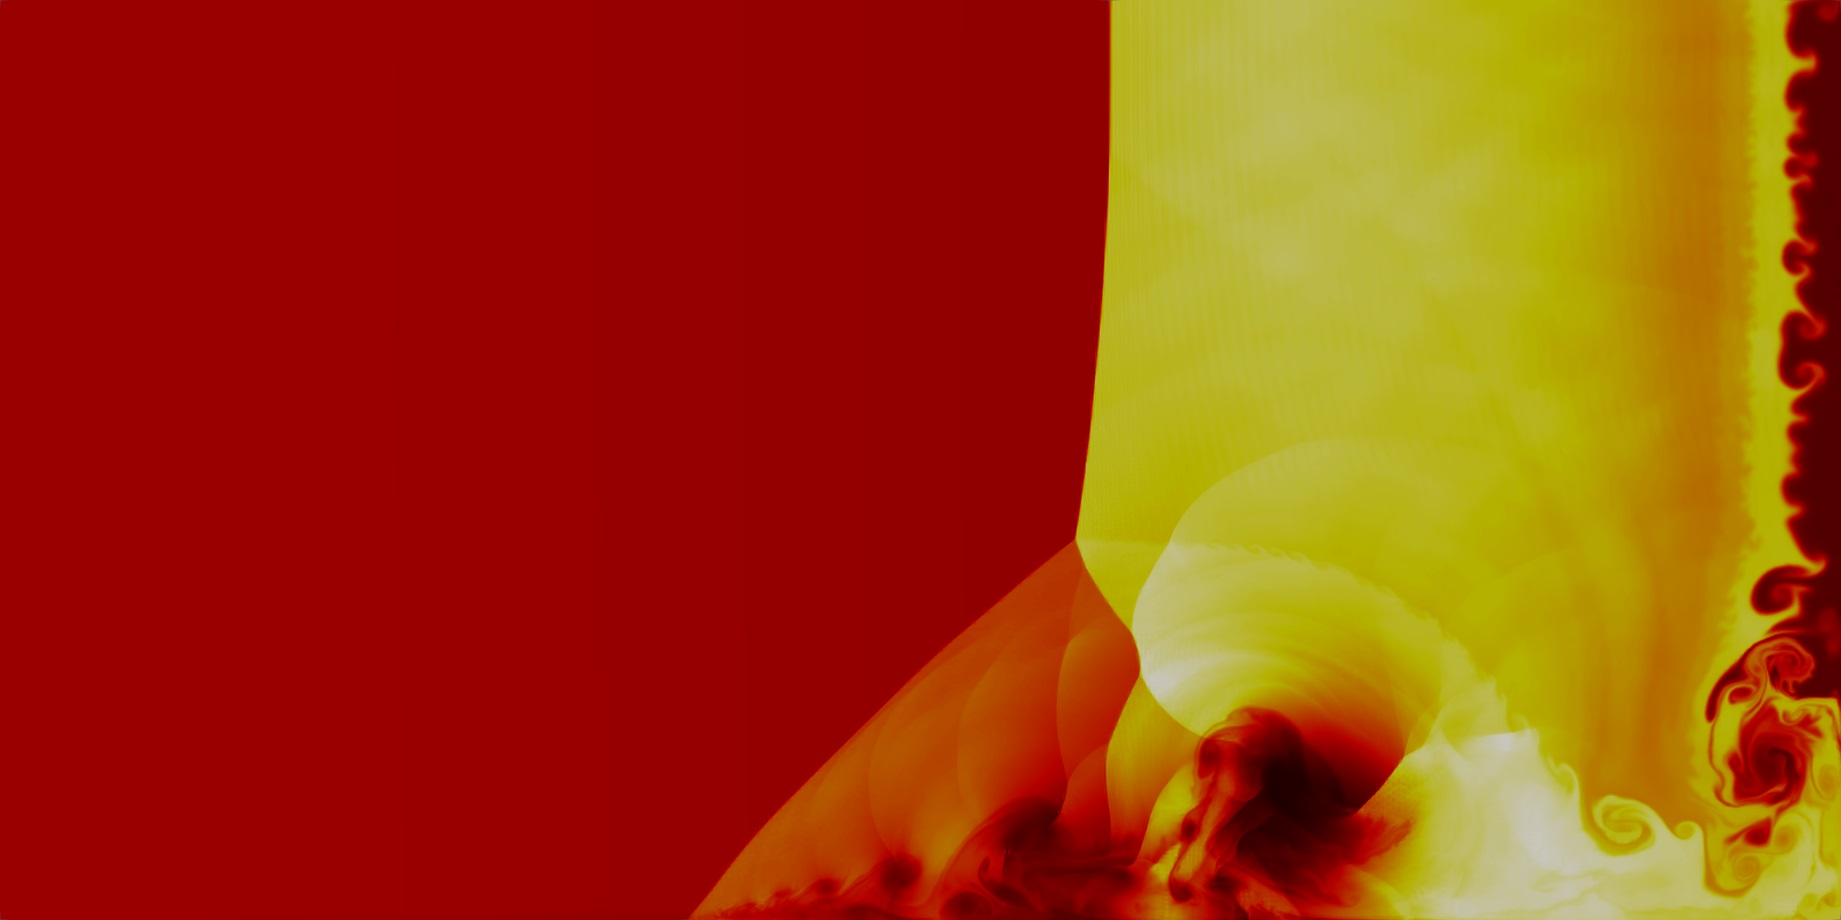
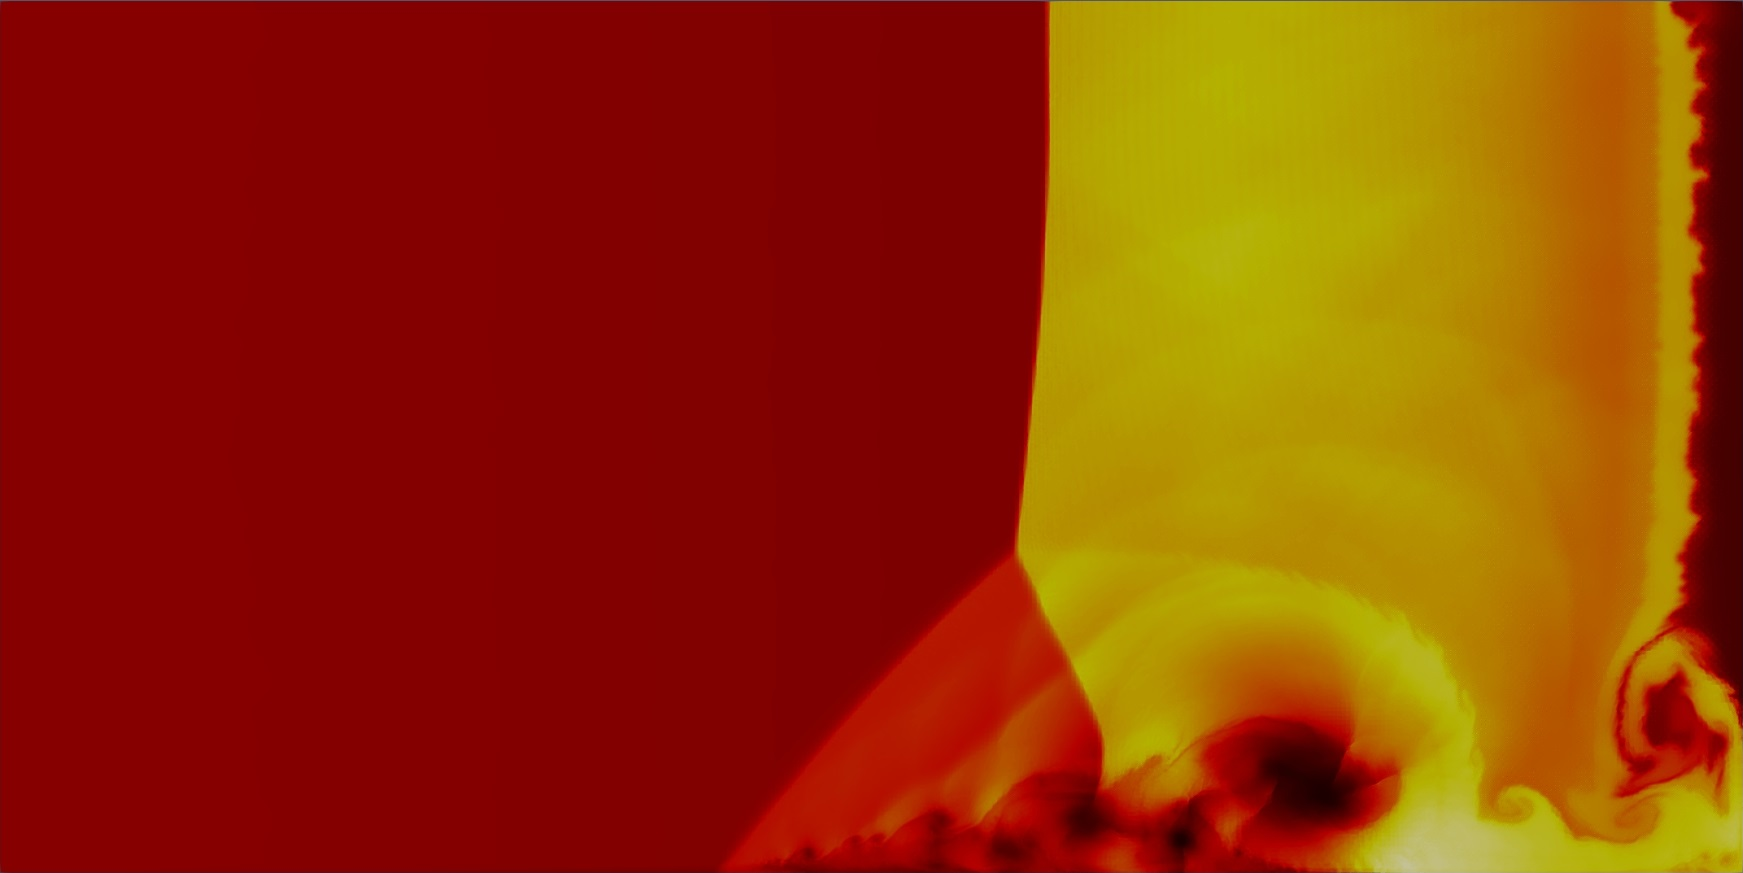
Updated EF defaults, docs, and examples.

diff --git a/pyfr/solvers/euler/elements.py b/pyfr/solvers/euler/elements.py
@@ -129,13 +129,13 @@ class BaseFluidElements:
             eftplargs['e_tol'] = self.cfg.getfloat('solver-entropy-filter',
                                                    'e-tol', 1e-6)
 
-            # Hidden kernel parameters
+            # Inner solver parameters
             eftplargs['f_tol'] = self.cfg.getfloat('solver-entropy-filter',
                                                    'f-tol', 1e-4)
             eftplargs['niters'] = self.cfg.getfloat('solver-entropy-filter',
-                                                    'niters', 20)
+                                                    'niters', 2)
             efunc = self.cfg.get('solver-entropy-filter', 'e-func',
-                                 'numerical')
+                                 'physical')
             eftplargs['e_func'] = efunc
             if efunc not in {'numerical', 'physical'}:
                 raise ValueError(f'Unknown entropy functional: {efunc}')

diff --git a/doc/src/systems/solver-entropy-filter.rst b/doc/src/systems/solver-entropy-filter.rst
@@ -18,7 +18,11 @@ Parameterises entropy filter for shock capturing with
 
 4. ``e-func`` --- type of entropy functional:
 
-    ``numerical`` | ``physical``
+    ``physical`` | ``numerical``
+
+5. ``niters`` --- number of filter strength solver iterations:
+
+    *int*
 
 Example::
 
@@ -26,7 +30,8 @@ Example::
     d-min = 1e-6
     p-min = 1e-6
     e-tol = 1e-6
-    e-func = numerical
+    e-func = physical
+    niters = 2
 
 Used in the following Examples:
 
